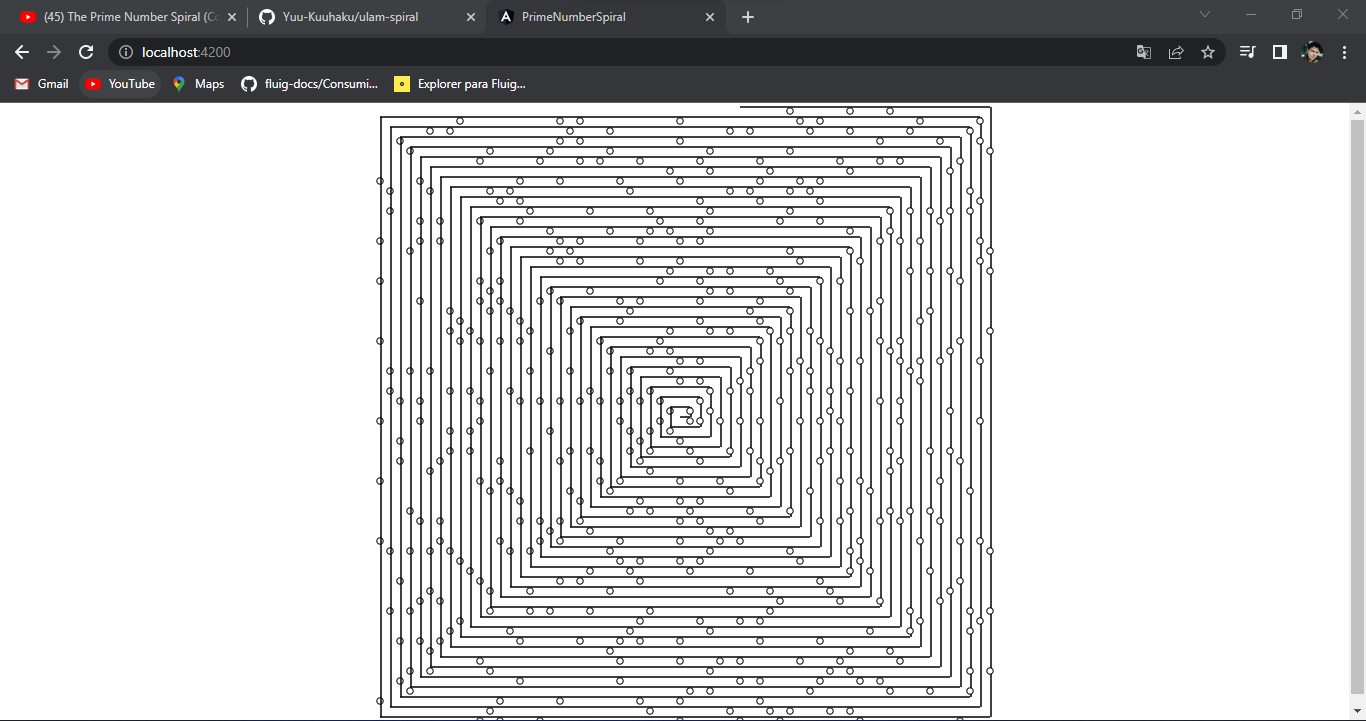
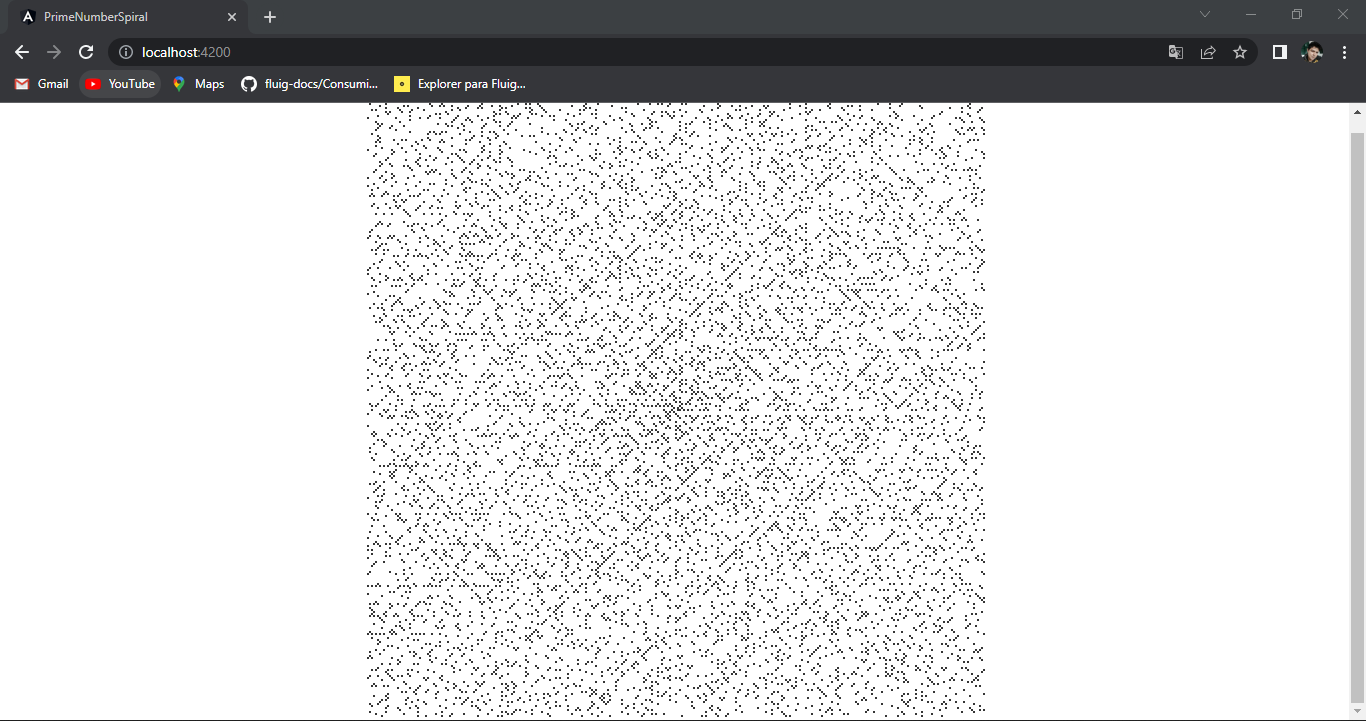
remove svg and added class circle

diff --git a/src/app/space-visor/space-visor.component.scss b/src/app/space-visor/space-visor.component.scss
@@ -1,4 +1,4 @@
-span {
+div {
   margin: 0;
   padding: 0;
   width: auto;
@@ -17,8 +17,8 @@ span {
   top: 50%;
   left: 50%;
   width: 100%;
-  border-top: 1px solid black;
-  background: black;
+  border-top: 1px solid #ccc;
+  background: #ccc;
   transform: translateY(-50%);
 }
 .wrap_left:before {
@@ -27,8 +27,8 @@ span {
   top: 50%;
   right: 50%;
   width: 100%;
-  border-top: 1px solid black;
-  background: black;
+  border-top: 1px solid #ccc;
+  background: #ccc;
   transform: translateY(-50%);
 }
 .wrap_up:before {
@@ -37,8 +37,8 @@ span {
   bottom: 50%;
   left: 50%;
   height: 100%;
-  border-left: 1px solid black;
-  background: black;
+  border-left: 1px solid #ccc;
+  background: #ccc;
   transform: translateX(50%);
 }
 .wrap_down:before {
@@ -47,8 +47,14 @@ span {
   top: 50%;
   left: 50%;
   height: 100%;
-  border-left: 1px solid black;
-  background: black;
+  border-left: 1px solid #ccc;
+  background: #ccc;
   transform: translateX(50%);
 }
 
+.circle {
+  background-color: #000;
+  border-radius: 50%;
+  display: inline-block;
+  z-index: 2;
+}

diff --git a/src/app/space-visor/space-visor.component.html b/src/app/space-visor/space-visor.component.html
@@ -1,7 +1,9 @@
-<div [ngClass]="{'wrap_left': direction == 'left','wrap_rigth':  direction == 'rigth', 'wrap_up': direction =='up', 'wrap_down': direction == 'down'}" [style.width]="width+ 'px'" [style.height]="height+ 'px'"  >
-  <span *ngIf="showIcon">
-    <svg [attr.width]="width" [attr.height]="height">
+<div  [style.width]="width+ 'px'" [style.height]="height+ 'px'"  >
+  <!-- <div [ngClass]="{'wrap_left': direction == 'left','wrap_rigth':  direction == 'rigth', 'wrap_up': direction =='up', 'wrap_down': direction == 'down'}" [style.width]="width+ 'px'" [style.height]="height+ 'px'"  > -->
+  <div class="circle" [style.width]="width +'px'" [style.height]="height +'px'"  *ngIf="showIcon">
+
+    <!-- <svg [attr.width]="width" [attr.height]="height">
       <circle [attr.cx]="width /2" [attr.cy]="height /2" [attr.r]="radio" stroke="black" stroke-width="1" fill="white" />
-    </svg>
-  </span>
+    </svg> -->
+  </div>
 </div>

diff --git a/src/app/visor/visor.component.ts b/src/app/visor/visor.component.ts
@@ -16,7 +16,7 @@ export class VisorComponent implements OnInit {
 
   spacies = new Array();
 
-  stepSize = 10;
+  stepSize = 2;
   numSteps = 1;
   state = 0;
 
